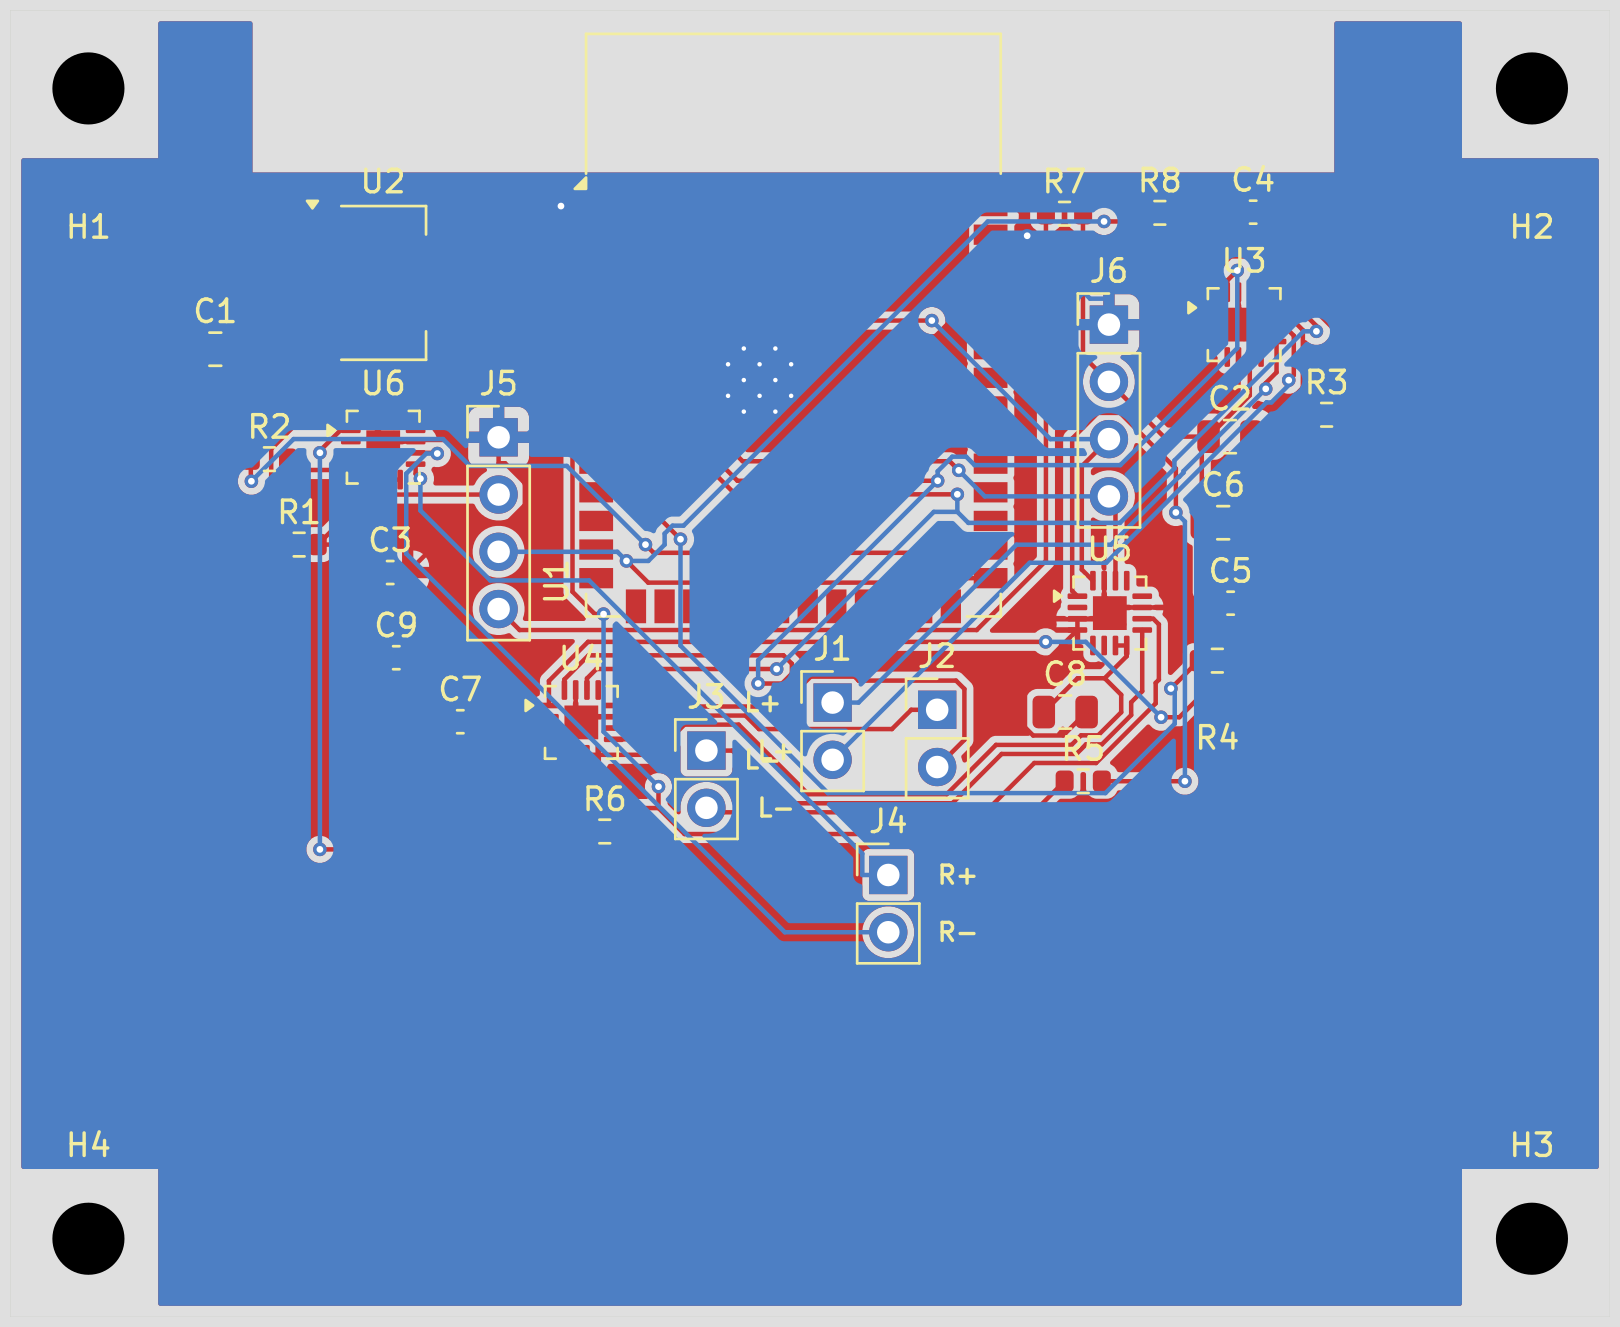
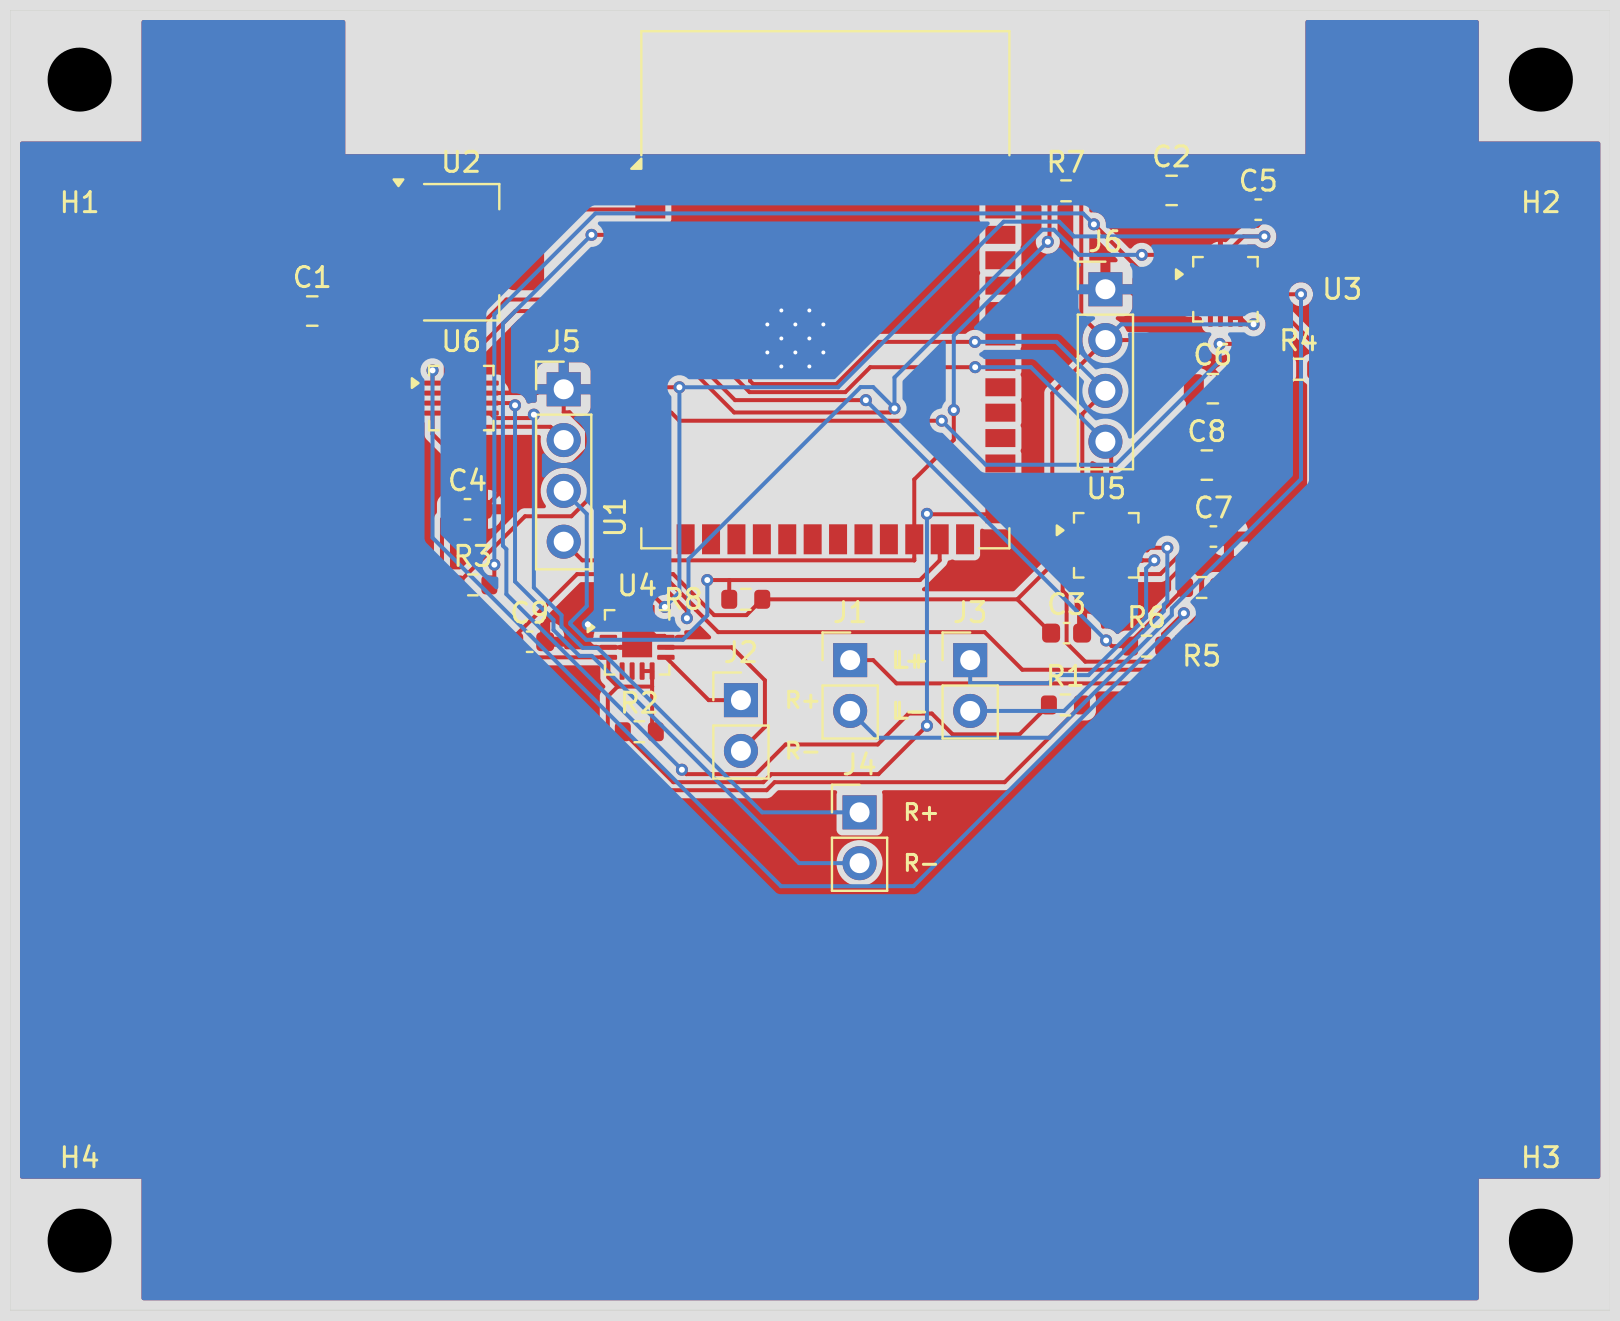
docs(examples): update audio-remote PCB image with fixed ESP32 placement
Fresh routing with U1 placement_hints edge=top on 80×65mm board —
ESP32 now centered, 0 unconnected nets (was 1). Board size updated
71×58 → 80×65mm.

diff --git a/docs/examples/audio-remote/README.md b/docs/examples/audio-remote/README.md
@@ -10,8 +10,8 @@
 
 ## PCB
 
-![PCB top](pcb-top.png)
+![PCB](pcb.png)
 
-> **Board size:** 71 × 58 mm  
+> **Board size:** 80 × 65 mm  
 > **Layer count:** 2  
 > **Components:** 29
